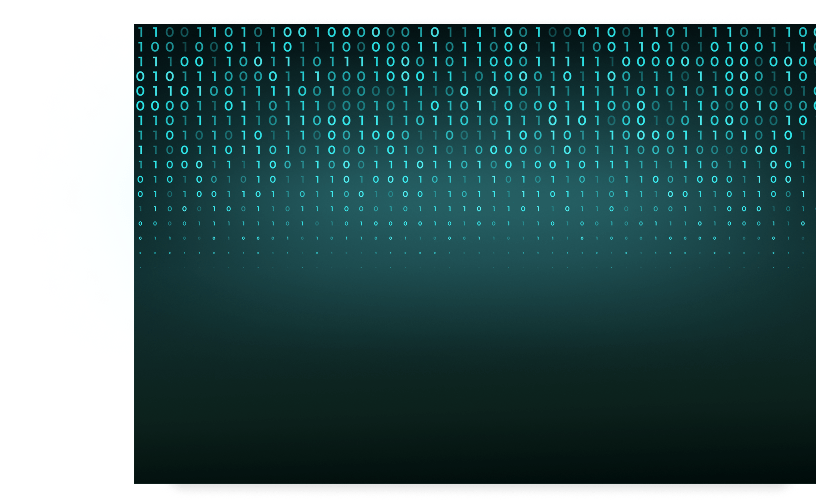
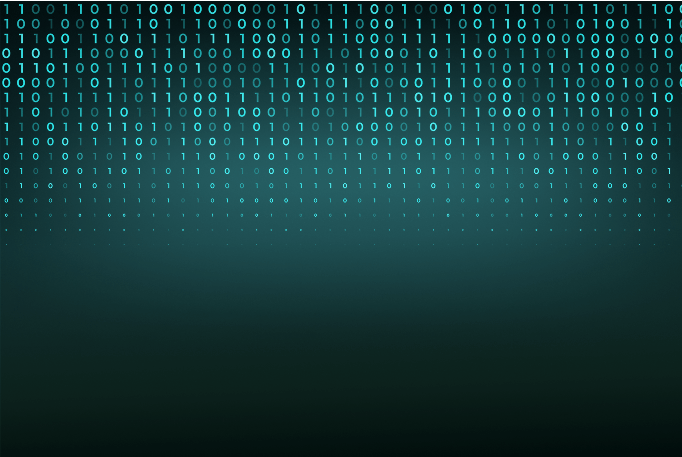
HWW section

diff --git a/src/components/HowWeWorkGallery.js b/src/components/HowWeWorkGallery.js
@@ -1,0 +1,88 @@
+'use client';
+import Image from 'next/image';
+import { useState } from 'react';
+import Title from './Title';
+
+const HowWeWorkGallery = () => {
+  const [currentItem, setCurrentItem] = useState(1);
+  const [visible, setVisible] = useState(true);
+
+  const ITEMS = [
+    {
+      id: '835sjHPnt6E',
+      title: 'Research and Design',
+      text: 'At KiWiCode Solutions, our journey begins with in-depth research and design. We conduct thorough market analysis and gather insights into your project`s goals and target audience. Our expert designers craft visually appealing and user-centric designs that set the foundation for a successful project.',
+      img: '/images/how_we_work_1.png',
+    },
+    {
+      id: 'e96fe2AG6Kb',
+      title: 'Development',
+      text: 'Once the design is approved, our skilled development team steps in. Using cutting-edge technologies, we transform designs into functional tech products. At KiWiCode Solutions, we specialize in creating custom solutions tailored to your specific needs, ensuring your project is unique and fully responsive.',
+      img: '/images/how_we_work_2.png',
+    },
+    {
+      id: 'v6k2Cj4b6VN',
+      title: 'Testing and Optimization',
+      text: 'Quality is our priority. In the testing and optimization phase, we perform extensive quality assurance to identify and resolve any issues, ensuring a seamless user experience. We also optimize performance, ensuring your project loads quickly and efficiently.',
+      img: '/images/how_we_work_3.png',
+    },
+    {
+      id: 'r5uhG9CLx25',
+      title: 'Launching the Project',
+      text: 'KiWiCode Solutions ensures a smooth and secure project launch. We handle the technical aspects of deployment, making your project accessible to your audience. This is the exciting moment when your project goes live and becomes available to users.',
+      img: '/images/how_we_work_4.png',
+    },
+  ];
+
+  const handleItemHover = (id) => {
+    if (id === currentItem) return;
+    setVisible(false);
+    setTimeout(() => {
+      setCurrentItem(id);
+      setVisible(true);
+    }, 200);
+  };
+
+  return (
+    <div className="flex items-center ml-[47px] gap-x-[74px] justify-between relative z-[1]">
+      <div className="w-[1px] h-[440px] rounded-[1px] absolute top-1/2 -translate-y-1/2 -left-[42px] bg-[#E6E9EA]" />
+      <ul className="w-[314px] h-full flex flex-col gap-y-[25px]">
+        {ITEMS.map((el, id) => (
+          <li
+            key={el.id}
+            onMouseEnter={() => handleItemHover(id)}
+            className={`${currentItem !== id ? 'opacity-50' : 'opacity-100'} relative transition-opacity duration-300`}
+          >
+            {currentItem === id && (
+              <div className="absolute top-1/2 -translate-y-1/2 -left-[44px] w-[5px] h-20 rounded-[3px] bg-[#5BD187]" />
+            )}
+
+            <Title styles={'mb-2'}>{el.title}</Title>
+            <p className="line-clamp-3 text-main-grey">{el.text}</p>
+          </li>
+        ))}
+      </ul>
+
+      <div
+        className={`
+    w-[630px] h-[461px] flex items-end relative rounded-base overflow-hidden p-10 my-auto
+    transition-opacity duration-2000 ease-in-out
+    ${visible ? 'opacity-100' : 'opacity-0'}
+  `}
+      >
+        <Image
+          src={ITEMS[currentItem].img}
+          width={360}
+          height={461}
+          className="w-full h-full object-center object-cover absolute top-0 left-0 transition-opacity duration-2000 ease-in-out"
+          alt=""
+        />
+        <div className="bg-white rounded-base p-6 relative z-[1] mt-auto transition-opacity duration-2000 ease-in-out">
+          <p>{ITEMS[currentItem].text}</p>
+        </div>
+      </div>
+    </div>
+  );
+};
+
+export default HowWeWorkGallery;

diff --git a/src/styles/globals.css b/src/styles/globals.css
@@ -7,17 +7,19 @@
   --bright-green: #38ee7d;
   --turquoise: #5bd1c5;
   --blue: #227d94;
-  --lite-gray: #fbfbfb; /* колір використовується на текстах у кнопках*/
+  --lite-grey: #fbfbfb;
+  --grey: #909da2 /* колір використовується на текстах у кнопках*/;
 }
 
 @theme inline {
   --color-bgColor: var(--background);
   --color-main: var(--foreground);
+  --color-main-grey: var(--grey);
   --color-accent: var(--accent);
   --color-bright-green: var(--bright-green);
   --color-turquoise: var(--turquoise);
   --color-blue: var(--blue);
-  --color-lite-gray: var(--lite-gray);
+  --color-lite-grey: var(--lite-grey);
   --shadow-base: 0px 0px 14px 0px rgba(74, 184, 139, 1);
   --radius-base: 20px;
 }
@@ -129,4 +131,37 @@ button:hover .arrow {
   transform: rotate(45deg);
 }
 
+@layer utilities {
+  .animate-fade-in {
+    animation: fadeIn 1.5s ease forwards;
+  }
+
+  .animate-fade-in-up {
+    animation: fadeInUp 2.5s ease forwards;
+  }
+
+  @keyframes fadeIn {
+    0% {
+      opacity: 0;
+    }
+    100% {
+      opacity: 1;
+    }
+  }
+
+  @keyframes fadeInUp {
+    0% {
+      opacity: 0;
+      transform: translateY(20px);
+    }
+    100% {
+      opacity: 1;
+      transform: translateY(0);
+    }
+  }
+}
+
+.hww-section-gradient {
+  background: linear-gradient(270deg, #38ef7d -122%, #227d94 214%);
+}
 /*  */

diff --git a/src/app/[locale]/page.js b/src/app/[locale]/page.js
@@ -1,3 +1,4 @@
+import HowWeWorkSection from '@/components/sections/HowWeWork';
 import Title from '@/components/Title';
 
 export default function Home() {
@@ -7,6 +8,8 @@ export default function Home() {
     <div className="grid grid-rows-[20px_1fr_20px] items-center justify-items-center min-h-screen p-8 pb-20 gap-16 sm:p-20 ">
       <main className="flex flex-col gap-[32px] row-start-2 items-center sm:items-start">
         <Title tag={'h1'}>KiWiCode Solutions</Title>
+
+        <HowWeWorkSection />
       </main>
     </div>
   );

diff --git a/src/components/sections/HowWeWork.js b/src/components/sections/HowWeWork.js
@@ -1,0 +1,16 @@
+import HowWeWorkGallery from '../HowWeWorkGallery';
+import Title from '../Title';
+
+const HowWeWorkSection = () => {
+  return (
+    <section className="w-full relative">
+      <div className="w-[1066px] mx-auto ">
+        <Title tag={'h2'}>How We Work</Title>
+        <HowWeWorkGallery />
+      </div>
+      <div className="absolute -left-[311px] top-[397px] w-[604px] h-[604px] rounded-full hww-section-gradient blur-[1000px] z-0" />
+    </section>
+  );
+};
+
+export default HowWeWorkSection;
